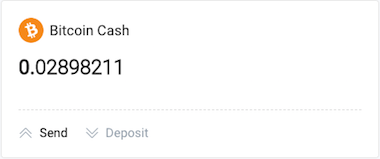
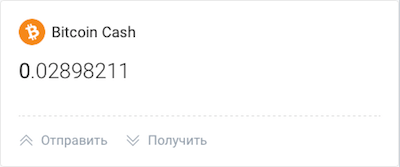
Updates

diff --git a/ru/waves-client/transfers-and-gateways/bitcoin-cash-transfers.md b/ru/waves-client/transfers-and-gateways/bitcoin-cash-transfers.md
@@ -23,7 +23,7 @@ Waves client позволяет хранить и переводить Bitcoin C
 
 Откройте ваш Waves кошелек и в Bitcoin Cash секции нажмите **Отправить**.
 
-![](/ru/_assets/bch_transfers_01.png)
+![](/ru/_assets/bch_transfers_03.png)
 
 В появившемся окне введите:
 
@@ -50,7 +50,7 @@ Waves client позволяет хранить и переводить Bitcoin C
 
 Откройте ваш Waves кошелек и в Bitcoin Cash секции нажмите **Отправить**.
 
-![](/ru/_assets/bch_transfers_01.png)
+![](/ru/_assets/bch_transfers_06.png)
 
 В появившемся окне введите:
 
